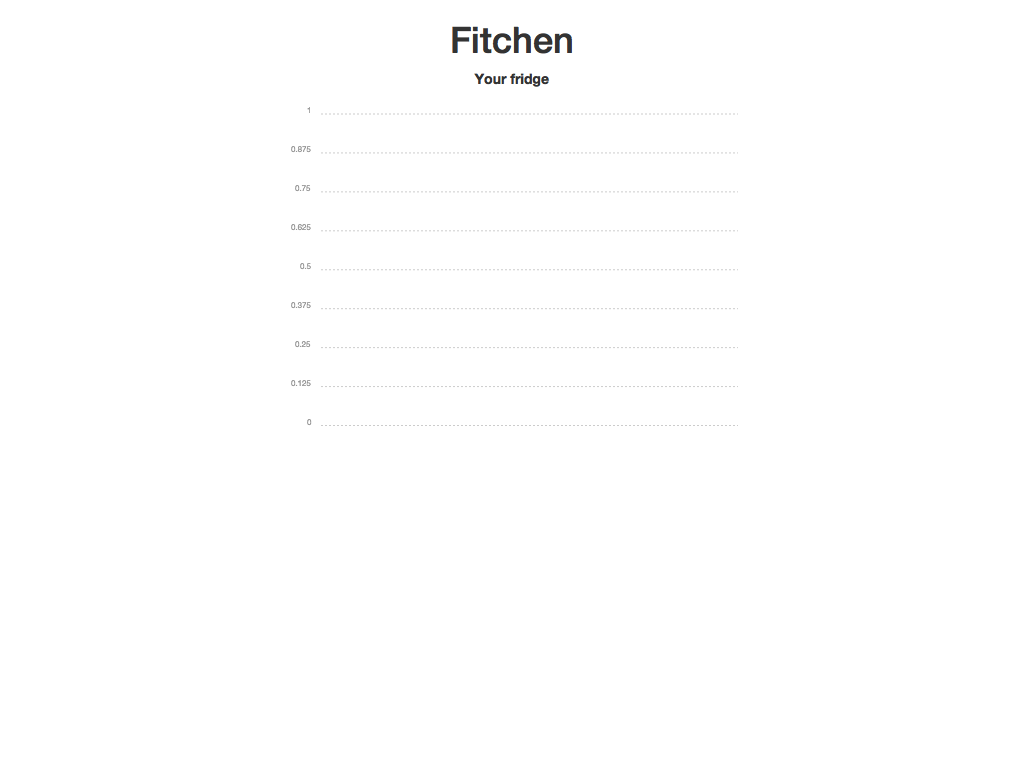
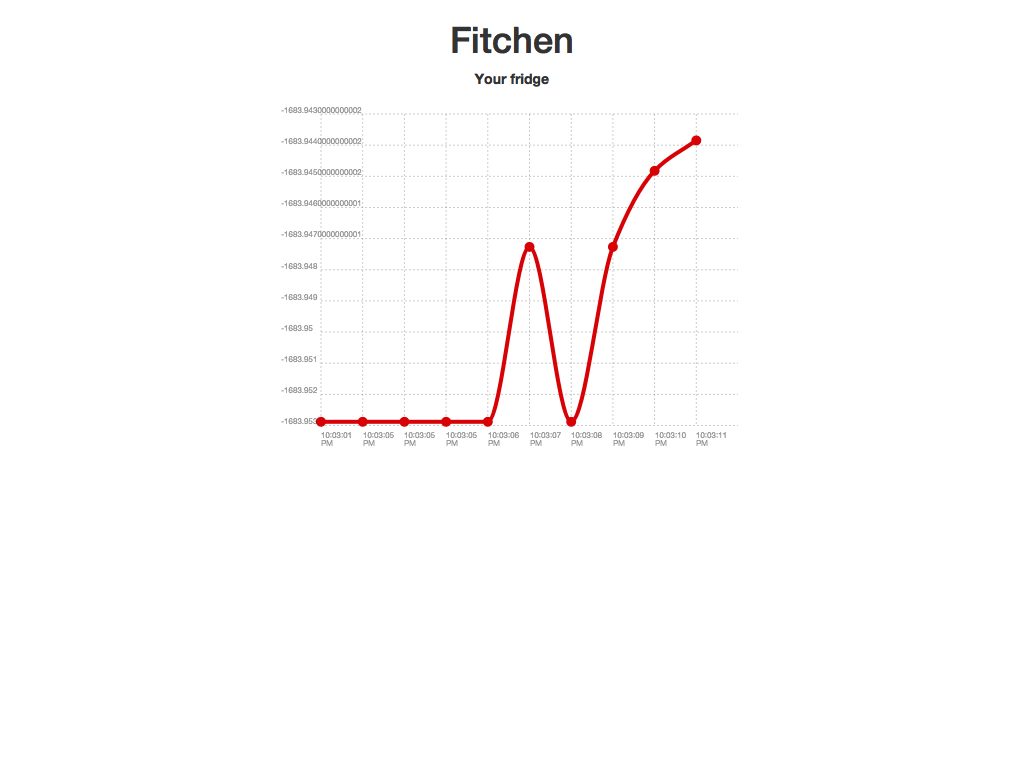
added index.js browserify

diff --git a/public/javascript/index.js b/public/javascript/index.js
@@ -1,0 +1,8 @@
+var $               = require('jquery')
+window.$            = $
+var moment          = require('moment')
+window.moment       = moment
+var Chartist        = require('chartist')
+window.Chartist     = Chartist
+var chartist_plugin = require('chartist-plugin-axistitle')
+require('./chart.js')

diff --git a/screenshot.js b/screenshot.js
@@ -4,5 +4,5 @@ webpage.open('http://localhost:5000/', function() {
 	setInterval(function(){
 	    webpage.render('screenshot.png')
 	    // phantom.exit()
-	}, 1000)
+	}, 3000)
 })
